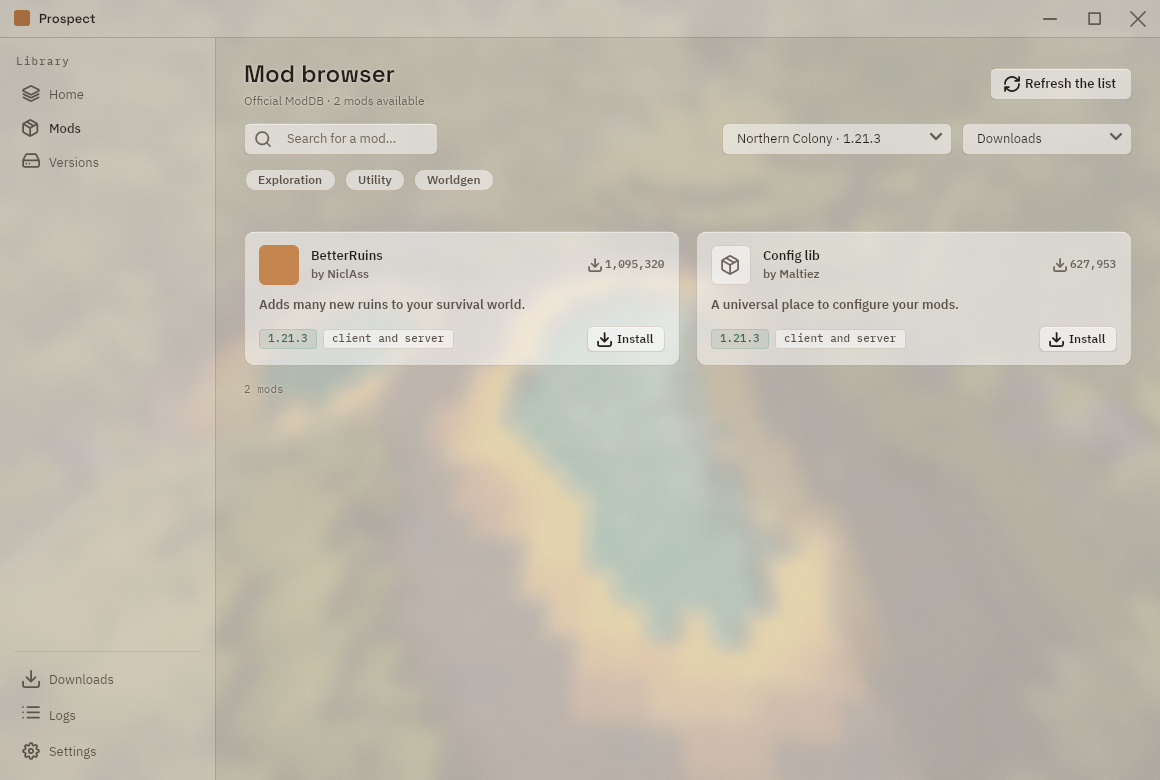
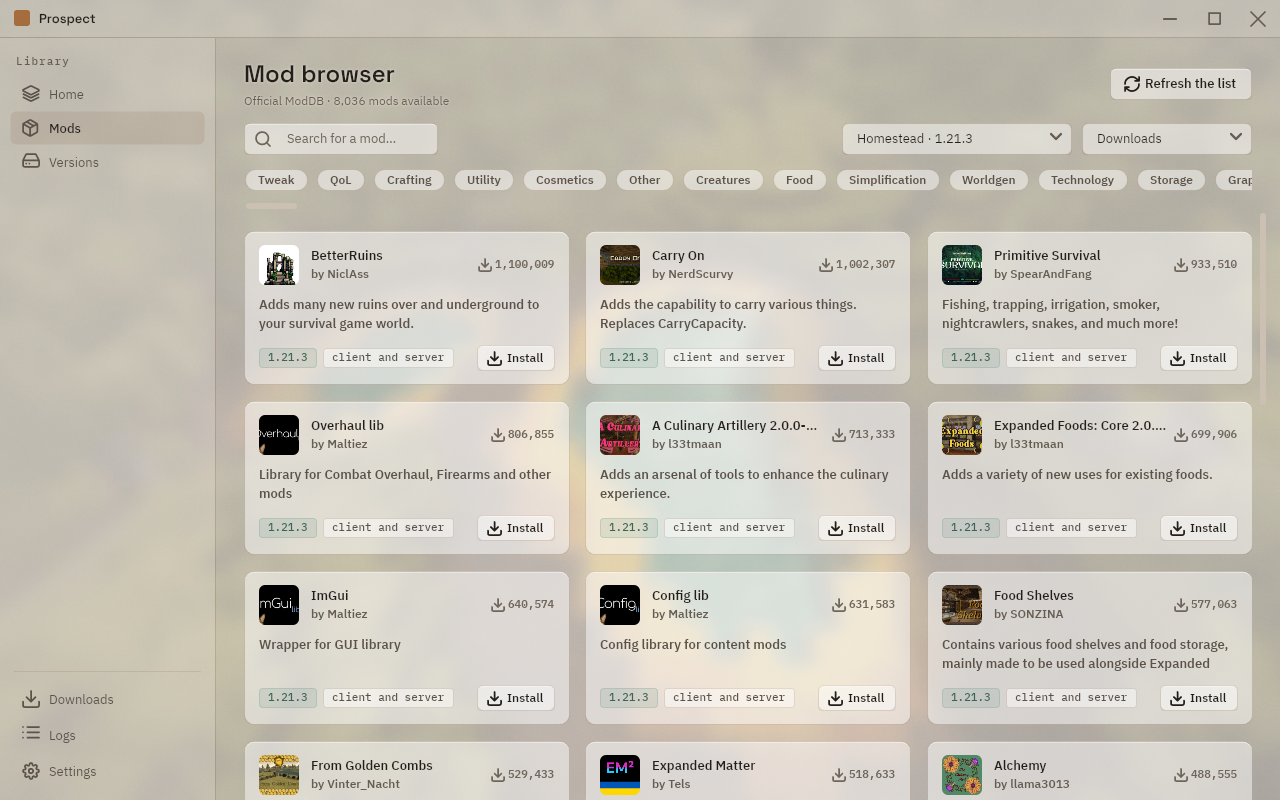
feat: real ModDB gallery and the missing customize and logs pages (#13)
## The gallery, recaptured for real

The five existing screens showed the fake test catalog: two or three
mods, placeholder logos. The whole set is recaptured at 1280x800, per
language and per theme (32 images), and grows from five to eight screens
per locale. The gallery lead now says eight screens and states that the
ModDB ones are not a mock-up.

Live against the real services:

- **navigateur-moddb**: the real catalog loaded in the browser, 8000+
mods, real logos and download counts, an instance selected so the
per-instance compatibility badges show.
- **fiche-mod** (new): Carry On's page as its author wrote it, rich
description with images, the one-line summary at the top next to name
and author.
- **versions**: the real stable and unstable catalogs (1.22.6 down the
list, rc builds behind the test toggle), with an installed version
alongside.

Seeded, as before:

- **accueil**: a three-instance grid with icons, version badges and
last-session lines.
- **instance-mods**: now with the last-launch verdict badges (3 errors,
1 warning, waiting on content) and a works-with tie, driven by a seeded
launch log.
- **wizard-instance**: the naming step, first of four.
- **docteur** (new): the instance checkup with two actionable findings
(version to install, missing mod dependency) and one to watch.
- **reglages-fonds** (new): Settings > General with the grid of eleven
backdrops, a non-default one selected and applied behind the dialog.
[…]

diff --git a/src/i18n/landing.ts b/src/i18n/landing.ts
@@ -100,7 +100,7 @@ export const en: LandingStrings = {
 	gallery: {
 		eyebrow: 'On screen',
 		title: 'The interface',
-		lead: 'Five screens from today’s builds, in both themes. The glass is mined from the same vein as the game (copper, stone, linen) and sits on a backdrop you pick from eleven in-game captures. The interface speaks English and French; each page of this site shows its own.',
+		lead: 'Eight screens from today’s builds, in both themes. The ModDB screens show the real catalog, not a mock-up. The glass is mined from the same vein as the game (copper, stone, linen) and sits on a backdrop you pick from eleven in-game captures. The interface speaks English and French; each page of this site shows its own.',
 		zoom: 'View full size:',
 		close: 'Close',
 		items: [
@@ -112,12 +112,17 @@ export const en: LandingStrings = {
 			{
 				src: 'instance-mods.png',
 				caption: 'An instance, Mods tab',
-				alt: 'Instance page on its Mods tab: enable toggles and update checks, next to the Worlds, Log and Options tabs',
+				alt: 'Instance page on its Mods tab: enable toggles and last-launch verdict badges, next to the Worlds, Log and Options tabs',
 			},
 			{
 				src: 'navigateur-moddb.png',
 				caption: 'The mod browser (ModDB)',
 				alt: 'Mod browser: the official ModDB in a fluid card grid, one-line summaries and per-instance compatibility badges',
+			},
+			{
+				src: 'fiche-mod.png',
+				caption: 'A mod’s page (Carry On)',
+				alt: 'Carry On’s ModDB page inside Prospect: the author’s description with its headings and images, the one-line summary at the top',
 			},
 			{
 				src: 'versions.png',
@@ -128,6 +133,16 @@ export const en: LandingStrings = {
 				src: 'wizard-instance.png',
 				caption: 'The new instance wizard',
 				alt: 'New instance wizard: naming the instance, first step of four',
+			},
+			{
+				src: 'docteur.png',
+				caption: 'The instance checkup',
+				alt: 'Instance checkup dialog: each finding named with its own fix, here a game version to install and a missing mod dependency',
+			},
+			{
+				src: 'reglages-fonds.png',
+				caption: 'Settings: pick your backdrop',
+				alt: 'General settings: the grid of eleven in-game backdrops, the selected one highlighted',
 			},
 		],
 	},
@@ -198,7 +213,7 @@ export const fr: LandingStrings = {
 	gallery: {
 		eyebrow: 'En images',
 		title: 'L’interface',
-		lead: 'Cinq écrans des builds du jour, dans les deux thèmes. Le verre sort du même filon que le jeu (cuivre, pierre, lin) et repose sur un fond d’écran à choisir parmi onze captures du jeu. L’interface parle français et anglais ; chaque page de ce site montre la sienne.',
+		lead: 'Huit écrans des builds du jour, dans les deux thèmes. Les écrans ModDB montrent le vrai catalogue, pas une maquette. Le verre sort du même filon que le jeu (cuivre, pierre, lin) et repose sur un fond d’écran à choisir parmi onze captures du jeu. L’interface parle français et anglais ; chaque page de ce site montre la sienne.',
 		zoom: 'Voir en grand :',
 		close: 'Fermer',
 		items: [
@@ -210,12 +225,17 @@ export const fr: LandingStrings = {
 			{
 				src: 'instance-mods.png',
 				caption: 'Une instance, onglet Mods',
-				alt: 'Page d’instance, onglet Mods : interrupteurs d’activation et vérification des mises à jour, à côté des onglets Mondes, Journal et Options',
+				alt: 'Page d’instance, onglet Mods : interrupteurs d’activation et pastilles de verdict du dernier lancement, à côté des onglets Mondes, Journal et Options',
 			},
 			{
 				src: 'navigateur-moddb.png',
 				caption: 'Le navigateur de mods (ModDB)',
 				alt: 'Navigateur de mods : le ModDB officiel en grille fluide, résumés d’une ligne et badges de compatibilité par instance',
+			},
+			{
+				src: 'fiche-mod.png',
+				caption: 'La fiche d’un mod (Carry On)',
+				alt: 'Fiche ModDB de Carry On dans Prospect : la description de l’auteur avec ses titres et ses images, le résumé d’une ligne en tête',
 			},
 			{
 				src: 'versions.png',
@@ -226,6 +246,16 @@ export const fr: LandingStrings = {
 				src: 'wizard-instance.png',
 				caption: 'L’assistant de création',
 				alt: 'Assistant de création d’instance : saisie du nom, première étape sur quatre',
+			},
+			{
+				src: 'docteur.png',
+				caption: 'Le diagnostic d’instance',
+				alt: 'Dialogue de diagnostic : chaque constat nommé avec son geste de réparation, ici une version du jeu à installer et une dépendance de mod manquante',
+			},
+			{
+				src: 'reglages-fonds.png',
+				caption: 'Réglages : le choix du fond',
+				alt: 'Réglages Général : la grille des onze fonds tirés du jeu, la vignette choisie mise en avant',
 			},
 		],
 	},

diff --git a/src/styles/custom.css b/src/styles/custom.css
@@ -886,7 +886,7 @@ body::after {
 .pr-gallery img {
 	width: 100%;
 	height: auto;
-	aspect-ratio: 1160 / 780;
+	aspect-ratio: 1280 / 800;
 	object-fit: cover;
 	background: var(--bg-surface);
 }

diff --git a/src/content/docs/fr/logs.md b/src/content/docs/fr/logs.md
@@ -1,0 +1,58 @@
+---
+title: Les journaux
+description: La page Journaux, l'export en zip et le journal de lancement de chaque instance.
+---
+
+Prospect écrit ce qu'il fait, et te le montre sans quitter l'application : la
+page Journaux de la barre latérale pour le launcher lui-même, l'onglet Journal
+de chaque instance pour le jeu.
+
+## La page Journaux
+
+Elle affiche la fin du journal de l'application, jusqu'aux 500 dernières
+lignes. Les lignes ordinaires restent neutres ; les avertissements et les
+erreurs sont teintés, parce que c'est l'inhabituel qu'on cherche en ouvrant un
+journal. Tant que la page est affichée, elle se relit toute seule toutes les
+deux secondes : tu peux la laisser ouverte pendant que tu reproduis un problème
+ailleurs, la ligne apparaît pendant que tu regardes. Le bouton Rafraîchir
+force une relecture à la seconde près, et le chemin du fichier est écrit sous
+la liste.
+
+Le fichier est plafonné à 1 Mo : au-delà, il repart de zéro plutôt que de
+grossir sans fin.
+
+## L'export en zip
+
+Le bouton Exporter écrit une archive (`prospect-journaux.zip` par défaut) qui
+emporte tout le dossier `logs/` : le journal de l'application et le journal de
+lancement de chaque instance. Pour un signalement sur GitHub, joins ce zip et
+rien d'autre : il contient ce qu'il faut pour comprendre ce qui s'est passé,
+et il tranche la plupart des questions.
+
+## Le journal de lancement, par instance
+
+Chaque instance a le sien. Au lancement, Prospect y écrit une ligne d'entête
+(le nom de l'instance, sa version du jeu, l'heure), puis tout ce que le jeu
+raconte, sortie d'erreur comprise. Le fichier est écrasé au lancement suivant :
+c'est le journal du dernier lancement, pas une histoire complète. Tu le lis
+dans l'onglet Journal de la page de l'instance, tel quel.
+
+Ce journal n'est pas qu'à lire : après chaque partie, Prospect le relit pour
+toi. Un mod qui a échoué porte une pastille sur l'onglet Mods (« 3 erreurs au
+dernier lancement »), et les intégrations détectées entre mods s'affichent en
+« fonctionne avec ». Le détail de ces pastilles est sur la page
+[Les mods](../mods/).
+
+Supprimer une instance emporte son journal de lancement avec elle.
+
+## Sur le disque
+
+Les journaux vivent dans `logs/`, sous le dossier racine de Prospect :
+
+- Linux : `~/.local/share/prospect/logs/`
+- Windows : `%APPDATA%\Prospect\logs\`
+- macOS : `~/Library/Application Support/Prospect/logs/`
+
+`prospect.log` est le journal de l'application ; les fichiers `instance-*.log`
+sont les journaux de lancement, un par instance. C'est exactement ce que
+l'export en zip emporte.

diff --git a/src/content/docs/logs.md b/src/content/docs/logs.md
@@ -1,0 +1,53 @@
+---
+title: Logs
+description: The Logs page, the zip export and each instance's launch log.
+---
+
+Prospect writes down what it does, and shows it without leaving the app: the
+Logs page in the sidebar covers the launcher itself, the Journal tab of each
+instance covers the game.
+
+## The Logs page
+
+It shows the tail of the application log, up to the last 500 lines. Ordinary
+lines stay plain; warnings and errors are tinted, because the unusual is what
+you open a log for. While the page is on screen it rereads itself every two
+seconds: leave it open while you reproduce a problem elsewhere and the line
+shows up as you watch. The Refresh button forces a reread to the second, and
+the file's path is printed under the list.
+
+The file is capped at 1 MB: past that, it starts over rather than growing
+forever.
+
+## The zip export
+
+The Export button writes an archive (`prospect-logs.zip` by default) that
+carries the whole `logs/` folder: the application log and every instance's
+launch log. For a report on GitHub, attach that zip and nothing else: it holds
+what is needed to understand what happened, and it settles most questions.
+
+## The launch log, per instance
+
+Each instance has its own. At launch, Prospect writes a header line (the
+instance's name, its game version, the time), then everything the game says,
+error output included. The file is overwritten by the next launch: it is the
+log of the last launch, not a full history. You read it in the Journal tab of
+the instance's page, as is.
+
+That log is not just for reading: after each session, Prospect reads it back
+for you. A mod that failed carries a badge on the Mods tab ("3 errors at the
+last launch"), and detected integrations between mods show up as "works
+with". The badges themselves are described on the [Mods](../mods/) page.
+
+Deleting an instance takes its launch log with it.
+
+## On disk
+
+Logs live in `logs/`, under Prospect's root folder:
+
+- Linux: `~/.local/share/prospect/logs/`
+- Windows: `%APPDATA%\Prospect\logs\`
+- macOS: `~/Library/Application Support/Prospect/logs/`
+
+`prospect.log` is the application log; the `instance-*.log` files are the
+launch logs, one per instance. That is exactly what the zip export carries.

diff --git a/src/content/docs/fr/customize.md b/src/content/docs/fr/customize.md
@@ -1,0 +1,38 @@
+---
+title: Personnaliser Prospect
+description: Thème, fond de fenêtre et langue de l'interface, depuis Réglages > Général.
+---
+
+Trois réglages d'apparence, tous au même endroit : Réglages > Général. Le thème
+et le fond de fenêtre s'appliquent à chaud, la fenêtre change pendant que tu
+regardes. La langue, elle, attend le prochain démarrage.
+
+## Le thème
+
+Sombre, clair, ou suivre le système. Trois boutons, effet immédiat : pas de
+redémarrage, pas de « prendra effet plus tard ». Une installation neuve démarre
+en sombre. « Suivre le système » délègue le choix à l'OS et continue de
+l'écouter : si ta machine passe en clair, Prospect suit.
+
+Toute la documentation montre les deux thèmes, et ce site aussi : les captures
+de la galerie basculent avec le thème de la page.
+
+## Le fond de fenêtre
+
+Onze fonds embarqués, tous des captures du jeu, des « Bassins turquoise » (le
+fond d'origine) à la « Veine de cristaux ». Ils s'affichent en grille de
+vignettes dans Réglages > Général ; clique une vignette et le fond change tout
+de suite, sans redémarrage. Le choix est retenu d'un lancement à l'autre.
+
+Tu remarqueras que les vignettes sont nettes alors que le fond appliqué est
+doux : chaque image est adoucie et assombrie d'avance pour que les panneaux de
+verre et le texte restent lisibles par-dessus, quel que soit le fond choisi.
+Le fond habille la fenêtre, il ne se dispute pas avec elle.
+
+## La langue
+
+Français ou anglais. Au premier démarrage, Prospect suit la langue de ton
+système ; ensuite le sélecteur des Réglages en change. Contrairement au thème
+et au fond, le choix prend effet au prochain démarrage de Prospect, et l'écran
+le dit sous le sélecteur. Ce réglage ne concerne que le launcher : la langue du
+jeu se règle dans Vintage Story.

diff --git a/src/content/docs/customize.md b/src/content/docs/customize.md
@@ -1,0 +1,38 @@
+---
+title: Customize Prospect
+description: Theme, window backdrop and interface language, all under Settings > General.
+---
+
+Three appearance settings, one place: Settings > General. Theme and backdrop
+apply hot, the window changes while you watch. The language waits for the next
+start.
+
+## The theme
+
+Dark, light, or follow the system. Three buttons, immediate effect: no restart,
+no "takes effect later". A fresh install starts dark. "Follow the system" hands
+the choice to your OS and keeps listening: if your machine switches to light,
+Prospect follows.
+
+The documentation shows both themes, and so does this site: the gallery
+captures switch with the page theme.
+
+## The window backdrop
+
+Eleven built-in backdrops, all captured in the game, from "Turquoise pools"
+(the original) to "Crystal vein". They sit in a thumbnail grid under
+Settings > General; click one and the window changes right away, no restart.
+The choice sticks across launches.
+
+You will notice the thumbnails are sharp while the applied backdrop is soft:
+every image is softened and dimmed ahead of time so the glass panels and the
+text stay readable on top of it, whichever backdrop you pick. The backdrop
+dresses the window, it does not compete with it.
+
+## The language
+
+English or French. On first start, Prospect follows your system language;
+after that, the selector in Settings changes it. Unlike the theme and the
+backdrop, the choice takes effect the next time Prospect starts, and the
+screen says so right under the selector. This setting is about the launcher
+only: the game's language is set inside Vintage Story.

diff --git a/src/content/docs/fr/getting-started.md b/src/content/docs/fr/getting-started.md
@@ -46,14 +46,16 @@ Les captures d'écran de cette documentation viennent des builds du jour.
 
 L'interface parle français et anglais. Le premier démarrage suit la langue de
 ton système ; les Réglages permettent d'en changer, et le choix s'applique au
-prochain démarrage de Prospect.
+prochain démarrage de Prospect. Le thème et le fond de fenêtre vivent au même
+endroit et s'appliquent tout de suite : voir
+[Personnaliser Prospect](../customize/).
 
 Si tu viens de VS Launcher, Prospect propose d'importer tes installations dès le
 premier démarrage : une copie, tes dossiers d'origine intacts. Les détails sont
 dans [Migrer depuis VS Launcher](../migrate-from-vs-launcher/).
 
 Pour suivre l'avancement ou signaler un problème, direction le
-[dépôt GitHub](https://github.com/Pixnop/Prospect). Pour un signalement, la page
-Journaux (dans la barre latérale) montre ce que Prospect a fait pendant la
-session et l'exporte dans un fichier : joins ce fichier, il tranche la plupart
-des questions.
+[dépôt GitHub](https://github.com/Pixnop/Prospect). Pour un signalement, la
+[page Journaux](../logs/) (dans la barre latérale) montre ce que Prospect a
+fait pendant la session et l'exporte dans un fichier : joins ce fichier, il
+tranche la plupart des questions.

diff --git a/src/content/docs/getting-started.md b/src/content/docs/getting-started.md
@@ -44,13 +44,14 @@ come from today's builds.
 
 The interface speaks English and French. The first start follows your system
 language; Settings changes it, and the choice applies the next time Prospect
-starts.
+starts. The theme and the window backdrop live in the same place and apply
+immediately: see [Customize Prospect](../customize/).
 
 If you come from VS Launcher, Prospect offers to import your installs at first
 start: a copy, your original folders untouched. The details are in
 [Migrate from VS Launcher](../migrate-from-vs-launcher/).
 
 To follow progress or report an issue, head to the
-[GitHub repository](https://github.com/Pixnop/Prospect). For a report, the Logs
-page (in the sidebar) shows what Prospect did during the session and exports it
-to a file: attach that file, it settles most questions.
+[GitHub repository](https://github.com/Pixnop/Prospect). For a report, the
+[Logs page](../logs/) (in the sidebar) shows what Prospect did during the
+session and exports it to a file: attach that file, it settles most questions.

diff --git a/src/content/docs/faq.md b/src/content/docs/faq.md
@@ -33,12 +33,14 @@ Everything lives under one root folder, at the standard location for your OS:
 - Windows: `%APPDATA%\Prospect\`
 - macOS: `~/Library/Application Support/Prospect/`
 
-Instances live in `instances/`, installed game versions in `versions/`.
+Instances live in `instances/`, installed game versions in `versions/`, and
+the application and launch logs in `logs/` (see [Logs](../logs/)).
 
 ## Which languages does Prospect speak?
 
 English and French. The first start follows your system language; Settings
-changes it, and the choice applies the next time Prospect starts.
+changes it, and the choice applies the next time Prospect starts. The other
+appearance settings are covered in [Customize Prospect](../customize/).
 
 ## What is an rc version?
 

diff --git a/src/content/docs/fr/faq.md b/src/content/docs/fr/faq.md
@@ -36,13 +36,15 @@ Tout vit sous un seul dossier racine, à un emplacement standard selon l'OS :
 - macOS : `~/Library/Application Support/Prospect/`
 
 Les instances sont dans `instances/`, les versions du jeu installées dans
-`versions/`.
+`versions/`, et les journaux de l'application et des lancements dans `logs/`
+(voir [Les journaux](../logs/)).
 
 ## Quelles langues parle Prospect ?
 
 Le français et l'anglais. Le premier démarrage suit la langue de ton système ;
 les Réglages permettent d'en changer, et le choix s'applique au prochain
-démarrage de Prospect.
+démarrage de Prospect. Les autres réglages d'apparence sont décrits dans
+[Personnaliser Prospect](../customize/).
 
 ## C'est quoi une version rc ?
 

diff --git a/src/content/docs/fr/mods.md b/src/content/docs/fr/mods.md
@@ -49,7 +49,7 @@ Launcher, qui ne proposait qu'installer, mettre à jour ou supprimer.
 
 ## Après un lancement, le verdict
 
-L'onglet Mods d'une instance relit le journal de lancement. Un mod qui a échoué
+L'onglet Mods d'une instance relit le [journal de lancement](../logs/). Un mod qui a échoué
 porte une pastille (« 3 erreurs au dernier lancement ») avec les lignes en cause
 dans son infobulle, et un mod dont l'intégration avec un autre a fonctionné dit
 « fonctionne avec X ». Et quand un mod cherche le contenu d'un autre qui n'est

diff --git a/src/content/docs/mods.md b/src/content/docs/mods.md
@@ -48,7 +48,7 @@ update and delete.
 
 ## After a launch, the verdict
 
-The instance's Mods tab reads the launch log back. A mod that failed carries a
+The instance's Mods tab reads the [launch log](../logs/) back. A mod that failed carries a
 badge ("3 errors at the last launch") with the offending lines in its tooltip,
 and a mod whose integration with another one resolved says "works with X". And when a mod
 looks for content from another one that is not installed, without declaring it
